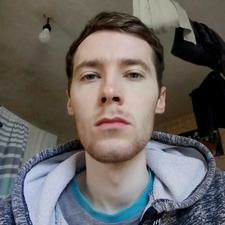
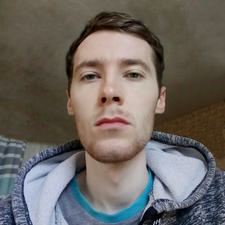
мини завершение 1
Ава, превью работ, перевод на анг версию, правка текста биграфии.

Changed region(s): [[0.5911, 0.0, 1.0, 0.7156], [0.0, 0.4667, 0.2489, 0.6533], [0.1556, 0.0622, 0.2489, 0.1867]]

diff --git a/en/index.html b/en/index.html
@@ -295,6 +295,7 @@
 					<a href="#" class="nav__link" title="Interests" data-scroll="#interest">Interests</a>
 					<a href="#" class="nav__link" title="Portfolio" data-scroll="#potrolio">Portfolio</a>
 					<a href="#" class="nav__link" id="linkSocial" title="Social" data-scroll="#socialID">Social</a>
+					<!-- Язык сайта-->
 					<div class="enru">
 						<a href="../index.html" class="enru-link ru"><img class="enru-img" src="img/icon/rus.png" alt=""></a>
 						<a href="index.html" class="enru-link eng"><img class="enru-img" src="img/icon/eng.png" alt=""></a>
@@ -309,6 +310,7 @@
 						<a href="#" class="burger-nav__link" title="Interests" data-scroll="#interest">Interests</a>
 						<a href="#" class="burger-nav__link" title="Portfolio" data-scroll="#potrolio">Portfolio</a>
 						<a href="#" class="burger-nav__link" id="linkSocial" title="Social" data-scroll="#socialID">Social</a>
+						<!-- Язык сайта-->
 						<div class="enru">
 							<a href="../index.html" class="enru-link ru"><img class="enru-img" src="img/icon/rus.png" alt=""></a>
 							<a href="index.html" class="enru-link eng"><img class="enru-img" src="img/icon/eng.png" alt=""></a>
@@ -380,26 +382,26 @@
 							</a>
 						</div><!-- /.social -->		
 						<div class="biog__text--hide">
-						&nbsp;&nbsp;&nbsp;&nbsp;Briefly about yourself: High learning ability, calmness, diligence, honesty, without negative habits (smoking, alcohol), continuous education, a tendency to self-development.
+						&nbsp;&nbsp;&nbsp;&nbsp;Briefly about yourself: Calmness, industriousness, honesty, without negative habits (smoking, alcohol), continuous education, a tendency to self-development, good learning.
 						<br><div class="txt-offset">offset</div>
 
 						&nbsp;&nbsp;&nbsp;&nbsp;Hobbies: Music: playing the guitar, singing in a choir / group. Self-development. Psychology. Business. Active adequate activities.
 						<br><div class="txt-offset">offset</div>
 
-						&nbsp;&nbsp;&nbsp;&nbsp;First of all, I introduce the <strong> BASIS </strong> into my knowledge, then its subsidiaries. Studied: HTML, CSS, SEO (gradually), adaptive / cross-browser layout - the external design of the site. In the future, and other design tools.
+						&nbsp;&nbsp;&nbsp;&nbsp;First of all, I try to put the <strong>BASIS</strong>, then its subsidiaries. Studied in the normal measure: HTML, CSS, adaptive / cross-browser layout - the external design of the site. In the future, and other design tools.
 						Studying now: JS, jQuery - site behavior. In the future, and other behavioral instruments.
 						<br><div class="txt-offset">offset</div>
 
-						&nbsp;&nbsp;&nbsp;&nbsp;I study the material myself on good books, for example: Duckett D. - Javascript and jQuery and others ... And the Internet: google, yandex, youtube and others, and also, I find online mentors, from whom I actually study.
-						On courses on the web. was not. Now there is no point - everything is possible to learn on your own!
+						&nbsp;&nbsp;&nbsp;&nbsp;I study the material myself from good books, for example: Duckett D. - Javascript and jQuery and others ... And the Internet: google, yandex, youtube and others, and also, I find online mentors from whom I study.
+						I did not attend courses on the web. I think there is little sense in this now - everything is possible to study independently ..
 						I am able to "find information." Even if I don’t know how to do something, I’ll find it in a short time and do it.
 						<br><div class="txt-offset">offset</div>
 
-						&nbsp;&nbsp;&nbsp;&nbsp;In parallel, I’m developing with such books as: Robert Kiyosaki “Cash Flow Quadrant”, Robert Kiyosaki “Rich Poor Dad”, Anthony Robins “Wake up a giant in yourself”, John Kehoe “The Subconscious Can Do Everything”.
-						And just as the pyramids were built (in the ramp), how the cell is restored and much more.
+						&nbsp;&nbsp;&nbsp;&nbsp;In parallel, I’m developing with such books as Robert Kiyosaki's “Cash Flow Quadrant” and “Rich Poor Dad”, Anthony Robins “Awake the Giant in You”, John Kehoe “The Subconscious Can Do Everything” and others.
+						And just like the pyramids were built, ancient discoveries, how the cell is restored, the animal world and much more.
 						<br><div class="txt-offset">offset</div>
 
-						&nbsp;&nbsp;&nbsp;&nbsp;For effective growth, I am simultaneously looking for a web development job for the <strong style="font-weight: bold">LONG</strong> perspective.
+						&nbsp;&nbsp;&nbsp;&nbsp;For effective growth, in parallel I am looking for a web development job for the <strong style="font-weight: bold">LONG</strong> perspective.
 						Even if now I have a drawdown in something, then in time it will only be a memory at 00:54 the night before the important performance. ;)
 						<br><div class="txt-offset">offset</div>
 
@@ -422,13 +424,13 @@
 					<div class="skill__item">
 						<h3 class="skill__name">HTML</h3>
 						<h3 class="skill__level html">line</h3>
-						<p class="skill__about">30%</p>
+						<p class="skill__about">60%</p>
 					</div>
 
 					<div class="skill__item">
 						<h3 class="skill__name">CSS</h3>
 						<h3 class="skill__level css">line</h3>
-						<p class="skill__about">25%</p>
+						<p class="skill__about">55%</p>
 					</div>
 
 					<div class="skill__item">
@@ -440,25 +442,25 @@
 					<div class="skill__item">
 						<h3 class="skill__name">jQuery</h3>
 						<h3 class="skill__level jquery">line</h3>
-						<p class="skill__about">1%</p>
+						<p class="skill__about">5%</p>
 					</div>
 
 					<div class="skill__item">
 						<h3 class="skill__name">Photoshop</h3>
 						<h3 class="skill__level photoshop">line</h3>
-						<p class="skill__about">35%</p>
+						<p class="skill__about">55%</p>
 					</div>
 
 					<div class="skill__item">
 						<h3 class="skill__name">Английский</h3>
 						<h3 class="skill__level eng">line</h3>
-						<p class="skill__about">20%</p>
+						<p class="skill__about">40%</p>
 					</div>
 
 					<div class="skill__item">
 						<h3 class="skill__name">Обучаемость</h3>
 						<h3 class="skill__level learnab">line</h3>
-						<p class="skill__about">75%</p>
+						<p class="skill__about">80%</p>
 					</div>
 				</div><!-- /.skill -->
 
@@ -529,10 +531,10 @@
 									Working hours: <br>
 								</div>
 								<div class="pai__value">
-									 Portfolio<br>
-									 Portfolio<br>
-									 Small<br>
-									 Updating..
+									Portfolio<br>
+									Portfolio<br>
+									Small<br>
+									Updating..
 								</div>
 							</div>
 							<a class="potrolio-about__link" href="http://zagsersan.github.io" target="_blank">View the project in a new tab </a>

diff --git a/index.html b/index.html
@@ -292,6 +292,7 @@
 					<a href="#" class="nav__link" title="Интересы" data-scroll="#interest">Интересы</a>
 					<a href="#" class="nav__link" title="Портфолио" data-scroll="#potrolio">Портфолио</a>
 					<a href="#" class="nav__link" id="linkSocial" title="Social" data-scroll="#socialID">Контакты</a>
+					<!-- Язык сайта -->
 					<div class="enru">
 						<a href="index.html" class="enru-link ru"><img class="enru-img" src="img/icon/rus.png" alt=""></a>
 						<a href="en/index.html" class="enru-link eng"><img class="enru-img" src="img/icon/eng.png" alt=""></a>
@@ -306,6 +307,7 @@
 						<a href="#" class="burger-nav__link" title="Interests" data-scroll="#interest">Интересы</a>
 						<a href="#" class="burger-nav__link" title="Portfolio" data-scroll="#potrolio">Портфолио</a>
 						<a href="#" class="burger-nav__link" id="linkSocial" title="Social" data-scroll="#socialID">Контакты</a>
+						<!-- Язык сайта -->
 						<div class="enru">
 							<a href="index.html" class="enru-link ru"><img class="enru-img" src="img/icon/rus.png" alt=""></a>
 							<a href="en/index.html" class="enru-link eng"><img class="enru-img" src="img/icon/eng.png" alt=""></a>
@@ -392,8 +394,8 @@
 						Умею "находить информацию". Даже если не знаю как сделать что-то - в краткие сроки найду, и сделаю.
 						<br><div class="txt-offset">offset</div>
 
-						&nbsp;&nbsp;&nbsp;&nbsp;Параллельно развиваюсь с такими книгами как: Роберт Кийосаки "Квадрант Денежного Потока", Роберт Кийосаки "Богатый Бедный Папа", Энтонни Робинс "Разбуди в себе исполина", Джон Кехо "Подсознание может всё".
-						А так же как строились пирамиды (вн пандус), как восстанавливается клетка и многое другое.
+						&nbsp;&nbsp;&nbsp;&nbsp;Параллельно развиваюсь с такими книгами как Роберта Кийосаки "Квадрант Денежного Потока" и "Богатый Бедный Папа", Энтонни Робинс "Разбуди в себе исполина", Джон Кехо "Подсознание может всё" и другие.
+						А так же как строились пирамиды, древние открытия, как восстанавливается клетка, мир животных и многое другое.
 						<br><div class="txt-offset">offset</div>
 
 						&nbsp;&nbsp;&nbsp;&nbsp;Для эффективного роста параллельно ищу работу по веб-разработке на <strong style="font-weight: bold">ДОЛГУЮ</strong> перспективу.
